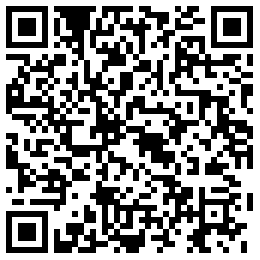
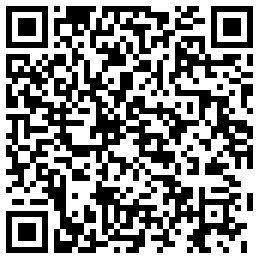
updata v3.2.0

diff --git a/src/theme/Navbar/index.js b/src/theme/Navbar/index.js
@@ -5,7 +5,7 @@
  * LICENSE file in the root directory of this source tree.
  */
 
-import React, {useCallback, useState, useEffect} from 'react';
+import React, { useCallback, useState, useEffect } from 'react';
 import Link from '@docusaurus/Link';
 import useDocusaurusContext from '@docusaurus/useDocusaurusContext';
 import useBaseUrl from '@docusaurus/useBaseUrl';
@@ -19,16 +19,16 @@ import useThemeContext from '@theme/hooks/useThemeContext';
 import useHideableNavbar from '@theme/hooks/useHideableNavbar';
 import useLockBodyScroll from '@theme/hooks/useLockBodyScroll';
 import 'antd/dist/antd.css';
-import {Button} from 'antd';
+import { Button } from 'antd';
 
 import styles from './styles.module.css';
 
-function NavLink({to, href, label, position, ...props}) {
+function NavLink({ to, href, label, position, ...props }) {
   const toUrl = useBaseUrl(to);
   useEffect(() => {
-    const SLS = new (window.Tracker || function() {})(
+    const SLS = new (window.Tracker || function () { })(
       'cn-shenzhen.log.aliyuncs.com',
-      'yingliboke-dev',
+      'yingliboke',
       'frontend',
     );
     // (
@@ -38,7 +38,7 @@ function NavLink({to, href, label, position, ...props}) {
     // );
 
     SLS.fillZero = num => (num < 10 ? `0${num}` : num);
-    SLS.pushLog = function(data = {}) {
+    SLS.pushLog = function (data = {}) {
       let now = new Date();
       Object.assign(data, {
         user: 0,
@@ -76,7 +76,7 @@ function NavLink({to, href, label, position, ...props}) {
     window.sls = Object.freeze(SLS);
 
     // 页面奔溃上传
-    window.onerror = function(
+    window.onerror = function (
       errorMessage,
       scriptURI,
       lineNumber,
@@ -103,15 +103,15 @@ function NavLink({to, href, label, position, ...props}) {
       className="navbar__item navbar__link"
       {...(href
         ? {
-            target: '_blank',
-            rel: 'noopener noreferrer',
-            href,
-          }
+          target: '_blank',
+          rel: 'noopener noreferrer',
+          href,
+        }
         : {
-            activeClassName:
-              to === '#solution' || to === '#case' ? '' : styles.activeLink,
-            to: toUrl,
-          })}
+          activeClassName:
+            to === '#solution' || to === '#case' ? '' : styles.activeLink,
+          to: toUrl,
+        })}
       {...props}>
       {position === 'right' ? (
         <div
@@ -121,32 +121,32 @@ function NavLink({to, href, label, position, ...props}) {
           {label}
         </div>
       ) : (
-        label
-      )}
+          label
+        )}
     </Link>
   );
 }
 
 function Navbar() {
   const context = useDocusaurusContext();
-  const {siteConfig = {}} = context;
-  const {baseUrl, themeConfig = {}} = siteConfig;
-  const {navbar = {}, disableDarkMode = false} = themeConfig;
-  const {title, logo = {}, links = [], hideOnScroll = false} = navbar;
+  const { siteConfig = {} } = context;
+  const { baseUrl, themeConfig = {} } = siteConfig;
+  const { navbar = {}, disableDarkMode = false } = themeConfig;
+  const { title, logo = {}, links = [], hideOnScroll = false } = navbar;
 
   const [sidebarShown, setSidebarShown] = useState(false);
   const [isSearchBarExpanded, setIsSearchBarExpanded] = useState(false);
   const [isHomePage, setIsHomePage] = useState(false);
   const [showBanner, setShowBanner] = useState(true);
 
-  const {isDarkTheme, setLightTheme, setDarkTheme} = useThemeContext();
-  const {navbarRef, isNavbarVisible} = useHideableNavbar(hideOnScroll);
+  const { isDarkTheme, setLightTheme, setDarkTheme } = useThemeContext();
+  const { navbarRef, isNavbarVisible } = useHideableNavbar(hideOnScroll);
 
   useLockBodyScroll(sidebarShown);
   const handler = () => {
     const banner = document.getElementById('homeBanner');
     if (isHomePage) {
-      const {left, right, top, bottom} = banner.getBoundingClientRect();
+      const { left, right, top, bottom } = banner.getBoundingClientRect();
       // console.log({left, right, top, bottom});
       const innerHeight = window.innerHeight,
         innerWidth = window.innerWidth;
@@ -246,9 +246,9 @@ function Navbar() {
   const isExternalLogoLink = /http/.test(logoLink);
   const logoLinkProps = isExternalLogoLink
     ? {
-        rel: 'noopener noreferrer',
-        target: '_blank',
-      }
+      rel: 'noopener noreferrer',
+      target: '_blank',
+    }
     : null;
   const logoSrc = logo.srcDark && isDarkTheme ? logo.srcDark : logo.src;
   const logoImageUrl = useBaseUrl(logoSrc);
@@ -287,7 +287,7 @@ function Navbar() {
             onClick={showSidebar}
             onKeyDown={showSidebar}>
             <svg
-              style={isHomePage && showBanner ? {color: '#FFFFFF'} : {}}
+              style={isHomePage && showBanner ? { color: '#FFFFFF' } : {}}
               xmlns="http://www.w3.org/2000/svg"
               width="30"
               height="30"
@@ -314,13 +314,13 @@ function Navbar() {
                   onClick={asyncHandler}
                 />
               ) : (
-                <img
-                  className={classnames('navbar__logo', styles.logoImg)}
-                  src={logoImageUrl}
-                  alt={logo.alt}
-                  onClick={asyncHandler}
-                />
-              ))}
+                  <img
+                    className={classnames('navbar__logo', styles.logoImg)}
+                    src={logoImageUrl}
+                    alt={logo.alt}
+                    onClick={asyncHandler}
+                  />
+                ))}
             {title != null && (
               <strong
                 className={isSearchBarExpanded ? styles.hideLogoText : ''}>
@@ -336,7 +336,7 @@ function Navbar() {
                   onClick={asyncHandler}
                   {...linkItem}
                   key={i}
-                  style={{padding: '18px 0', margin: '0 20px', height: '60px'}}
+                  style={{ padding: '18px 0', margin: '0 20px', height: '60px' }}
                 />
               ))}
           </div>
@@ -351,7 +351,7 @@ function Navbar() {
               <NavLink
                 {...linkItem}
                 key={i}
-                style={{marginLeft: '50px', padding: '0'}}
+                style={{ marginLeft: '50px', padding: '0' }}
               />
             ))}
           {!disableDarkMode && (

diff --git a/src/pages/download/index.js b/src/pages/download/index.js
@@ -6,7 +6,7 @@ import useDocusaurusContext from '@docusaurus/useDocusaurusContext';
 import useBaseUrl from '@docusaurus/useBaseUrl';
 import styles from './styles.module.css';
 import 'antd/dist/antd.css';
-import {} from 'antd';
+import { } from 'antd';
 
 import SideBar from '../sidebar';
 const download = (url, device = 'android') => {
@@ -47,14 +47,14 @@ function Download() {
    */
   const Android = {
     url:
-      'https://yingliboke.oss-cn-shenzhen.aliyuncs.com/android/www%E8%8B%B1%E8%8D%94%E6%92%AD%E8%AF%BE3.0.0-07-28_2007_300_jiagu_sign.apk',
+      'https://yingliboke.oss-cn-shenzhen.aliyuncs.com/android/www%E8%8B%B1%E8%8D%94%E6%92%AD%E8%AF%BE3.2.0-08-13_1821_320_jiagu_sign.apk',
     qr_code: useBaseUrl('img/android_download.png'),
     cover: useBaseUrl('img/Android.png'),
   };
 
   const Ios = {
     url:
-      'https://yingliboke.oss-cn-shenzhen.aliyuncs.com/android/www%E8%8B%B1%E8%8D%94%E6%92%AD%E8%AF%BE3.0.0-07-28_2007_300_jiagu_sign.apk',
+      'https://apps.apple.com/cn/app/%E8%8B%B1%E8%8D%94%E6%92%AD%E8%AF%BE/id1467718115',
     qr_code: useBaseUrl('img/ios_down.png'),
     cover: useBaseUrl('img/iphone.png'),
   };

diff --git a/docs/StudentDesk.md b/docs/StudentDesk.md
@@ -109,6 +109,35 @@ title: 我是学员 - 客户端
 
 ## **常见问题及处理**
 
+### **下载了桌面客户端安装包却无法安装或打开**
+
+1、检查是否下载对应的电脑系统版本。
+
+2、如果Windows电脑安装时弹窗提示【Window已保护你的电脑】。
+
+<img src="https://e-ducation.oss-cn-shenzhen.aliyuncs.com/yingliboke_mkt_help/20200707/anzhuang1.png" style={{border:'1px solid #eff0f2'}} />
+<br/>
+<br/>
+
+__操作方法：更多信息--仍要运行。设置完成即可安装打开运行。__ 
+
+<img src="https://e-ducation.oss-cn-shenzhen.aliyuncs.com/yingliboke_mkt_help/20200707/anzhuang2.png" style={{border:'1px solid #eff0f2'}} />
+<br/>
+<br/>
+3、苹果电脑系统版本高于 10.14.5 安装后无法打开并提示【无法打不开“英荔播课 观众端”...】。
+<br/>
+<br/>
+<img src="https://e-ducation.oss-cn-shenzhen.aliyuncs.com/yingliboke_mkt_help/20200811/%E6%88%91%E6%98%AF%E5%AD%A6%E5%91%98-MAC%E5%AE%89%E8%A3%85.png" style={{border:'1px solid #eff0f2'}} />
+<br/>
+<br/>
+
+ __操作方法：打开苹果电脑系统偏好设置--安全性与隐私--通用--仍要打开。设置完成后重新打开英荔播课 观众端即可。__ 
+
+<img src="https://e-ducation.oss-cn-shenzhen.aliyuncs.com/yingliboke_mkt_help/20200707/anzhuang4.png" style={{border:'1px solid #eff0f2'}} />
+<br/>
+<br/>
+<img src="https://e-ducation.oss-cn-shenzhen.aliyuncs.com/yingliboke_mkt_help/20200707/anzhuang5.png" style={{border:'1px solid #eff0f2'}} />
+
 ### **获取不到验证码**
 
 1. 检查手机是否设置短信拦截；
@@ -132,3 +161,7 @@ title: 我是学员 - 客户端
 ### **退出后再次进入**
 
 不小心退出直播间，需再次输入直播房间号搜索，或在直播中筛选查找。
+
+### **回放视频出现卡顿**
+
+部分 Windows 电脑观看回放可能会出现视频卡顿，请联系管理员处理。
